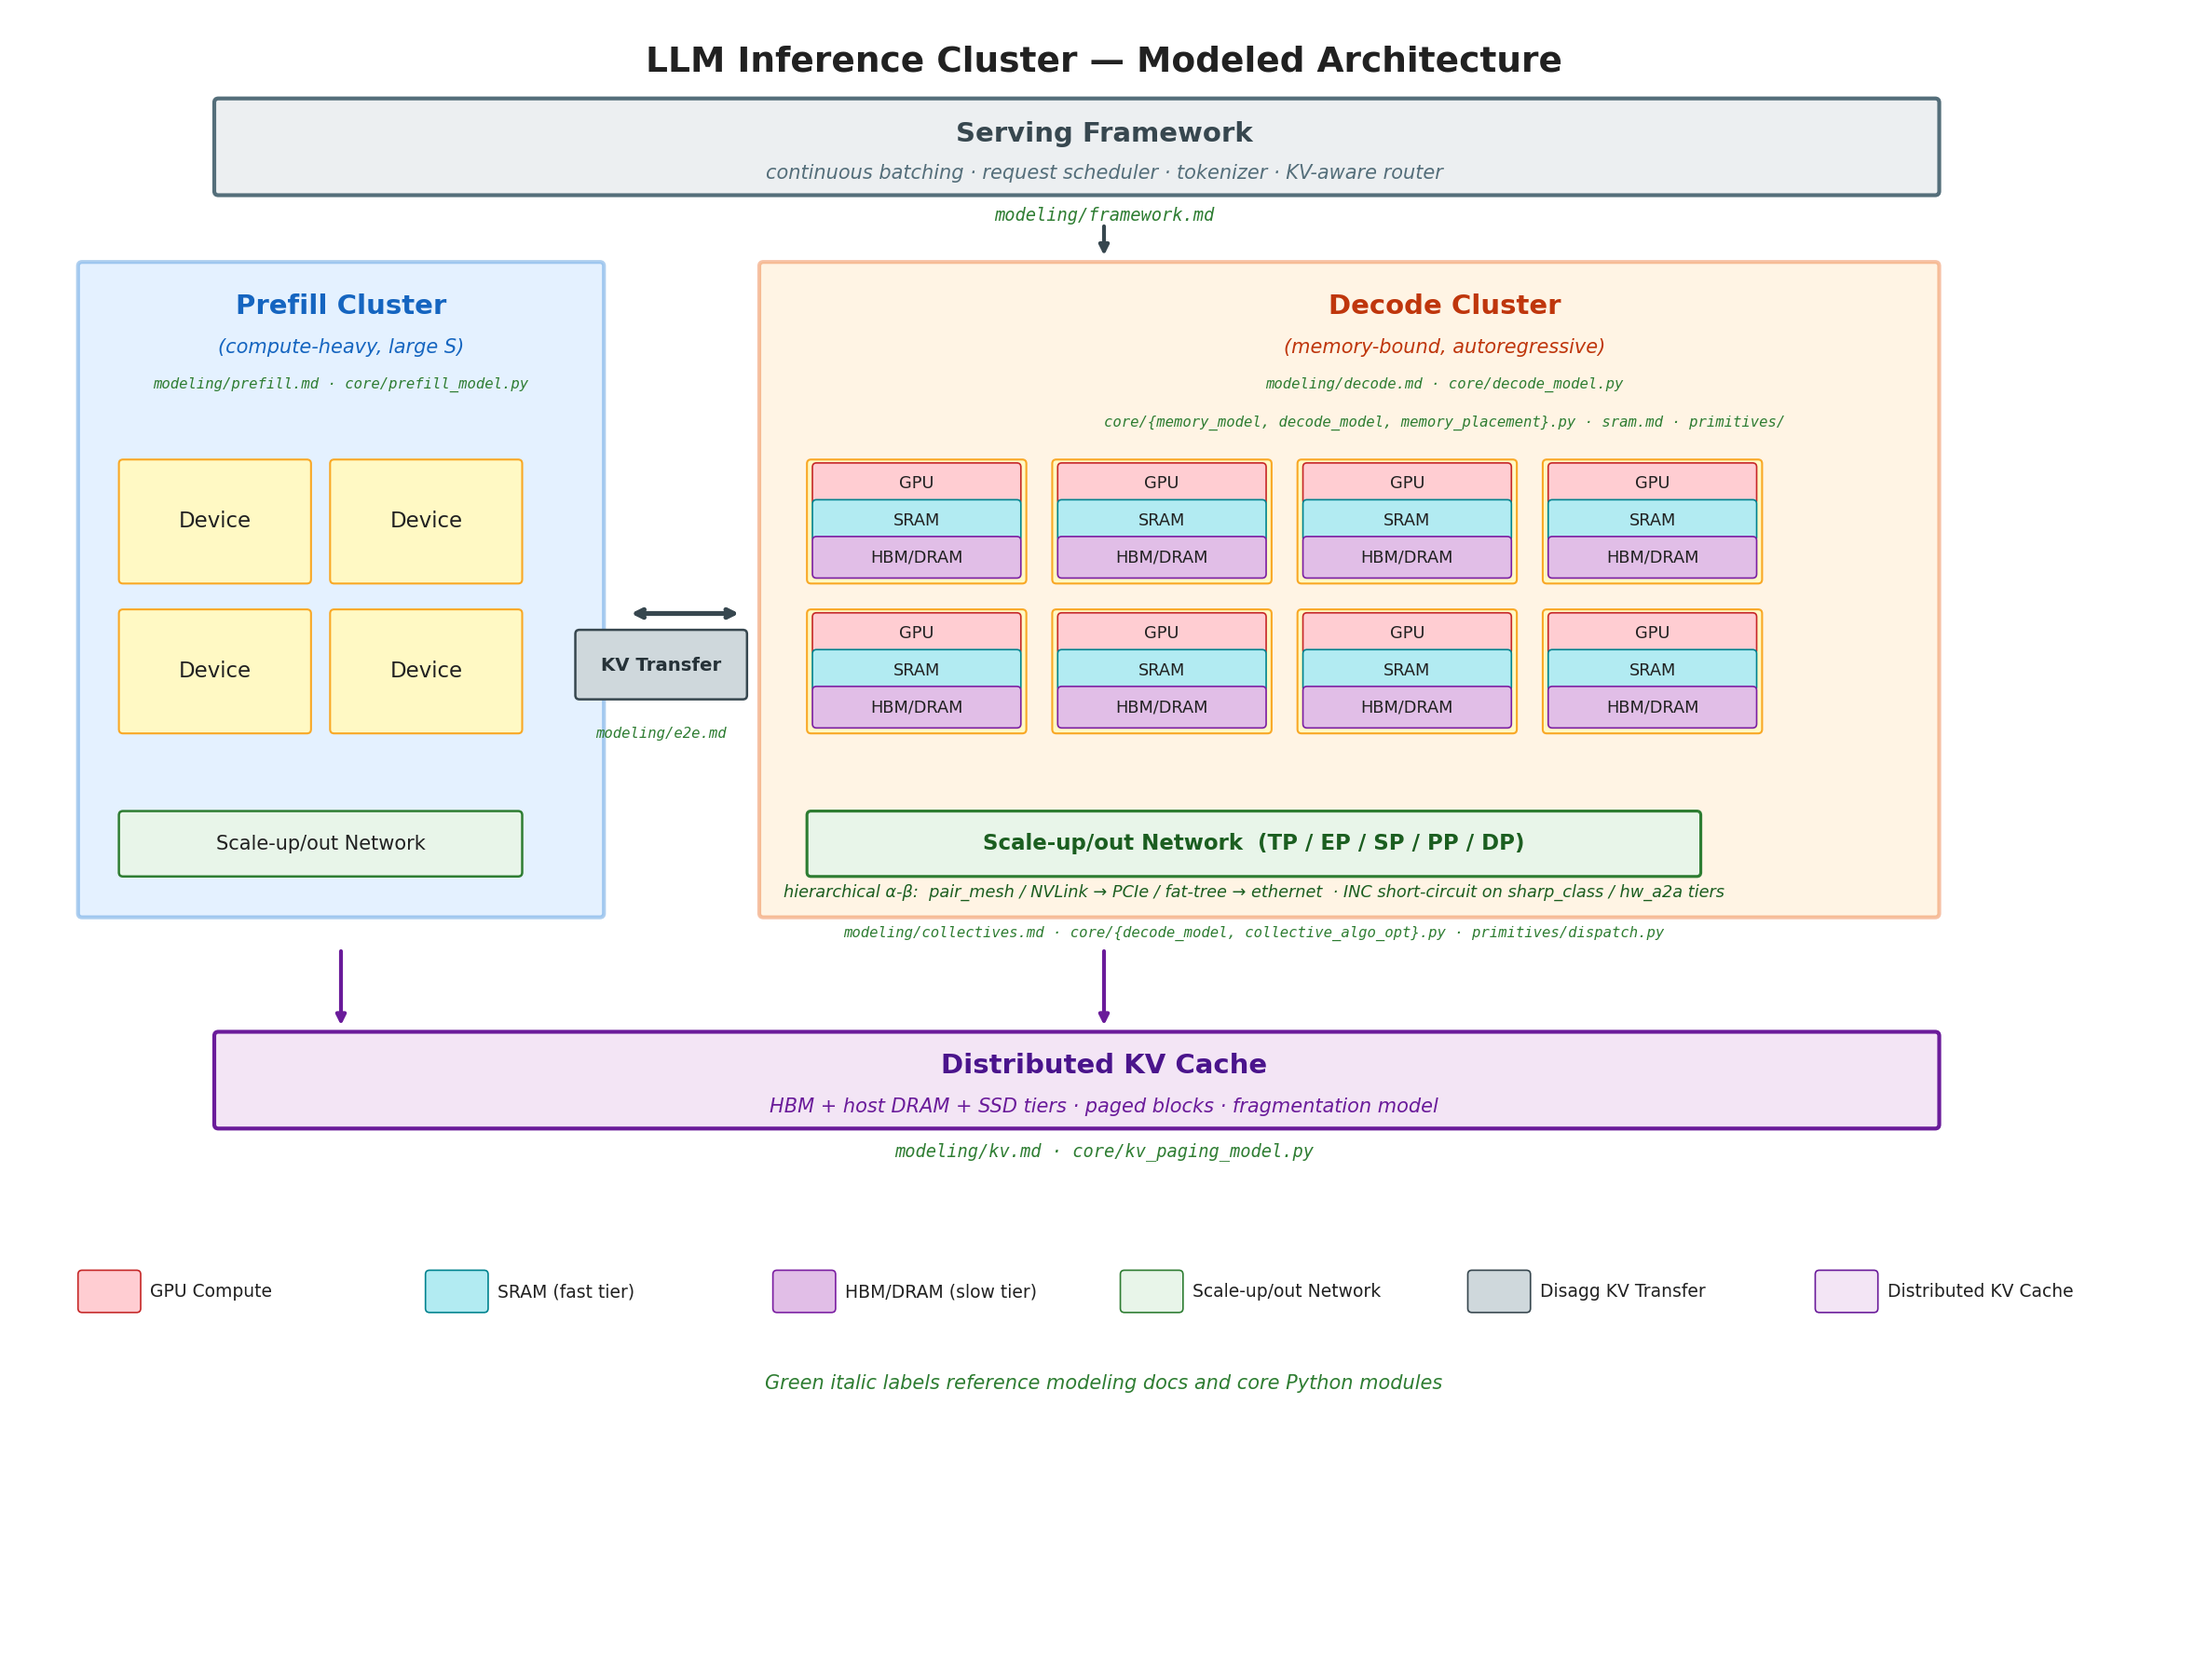
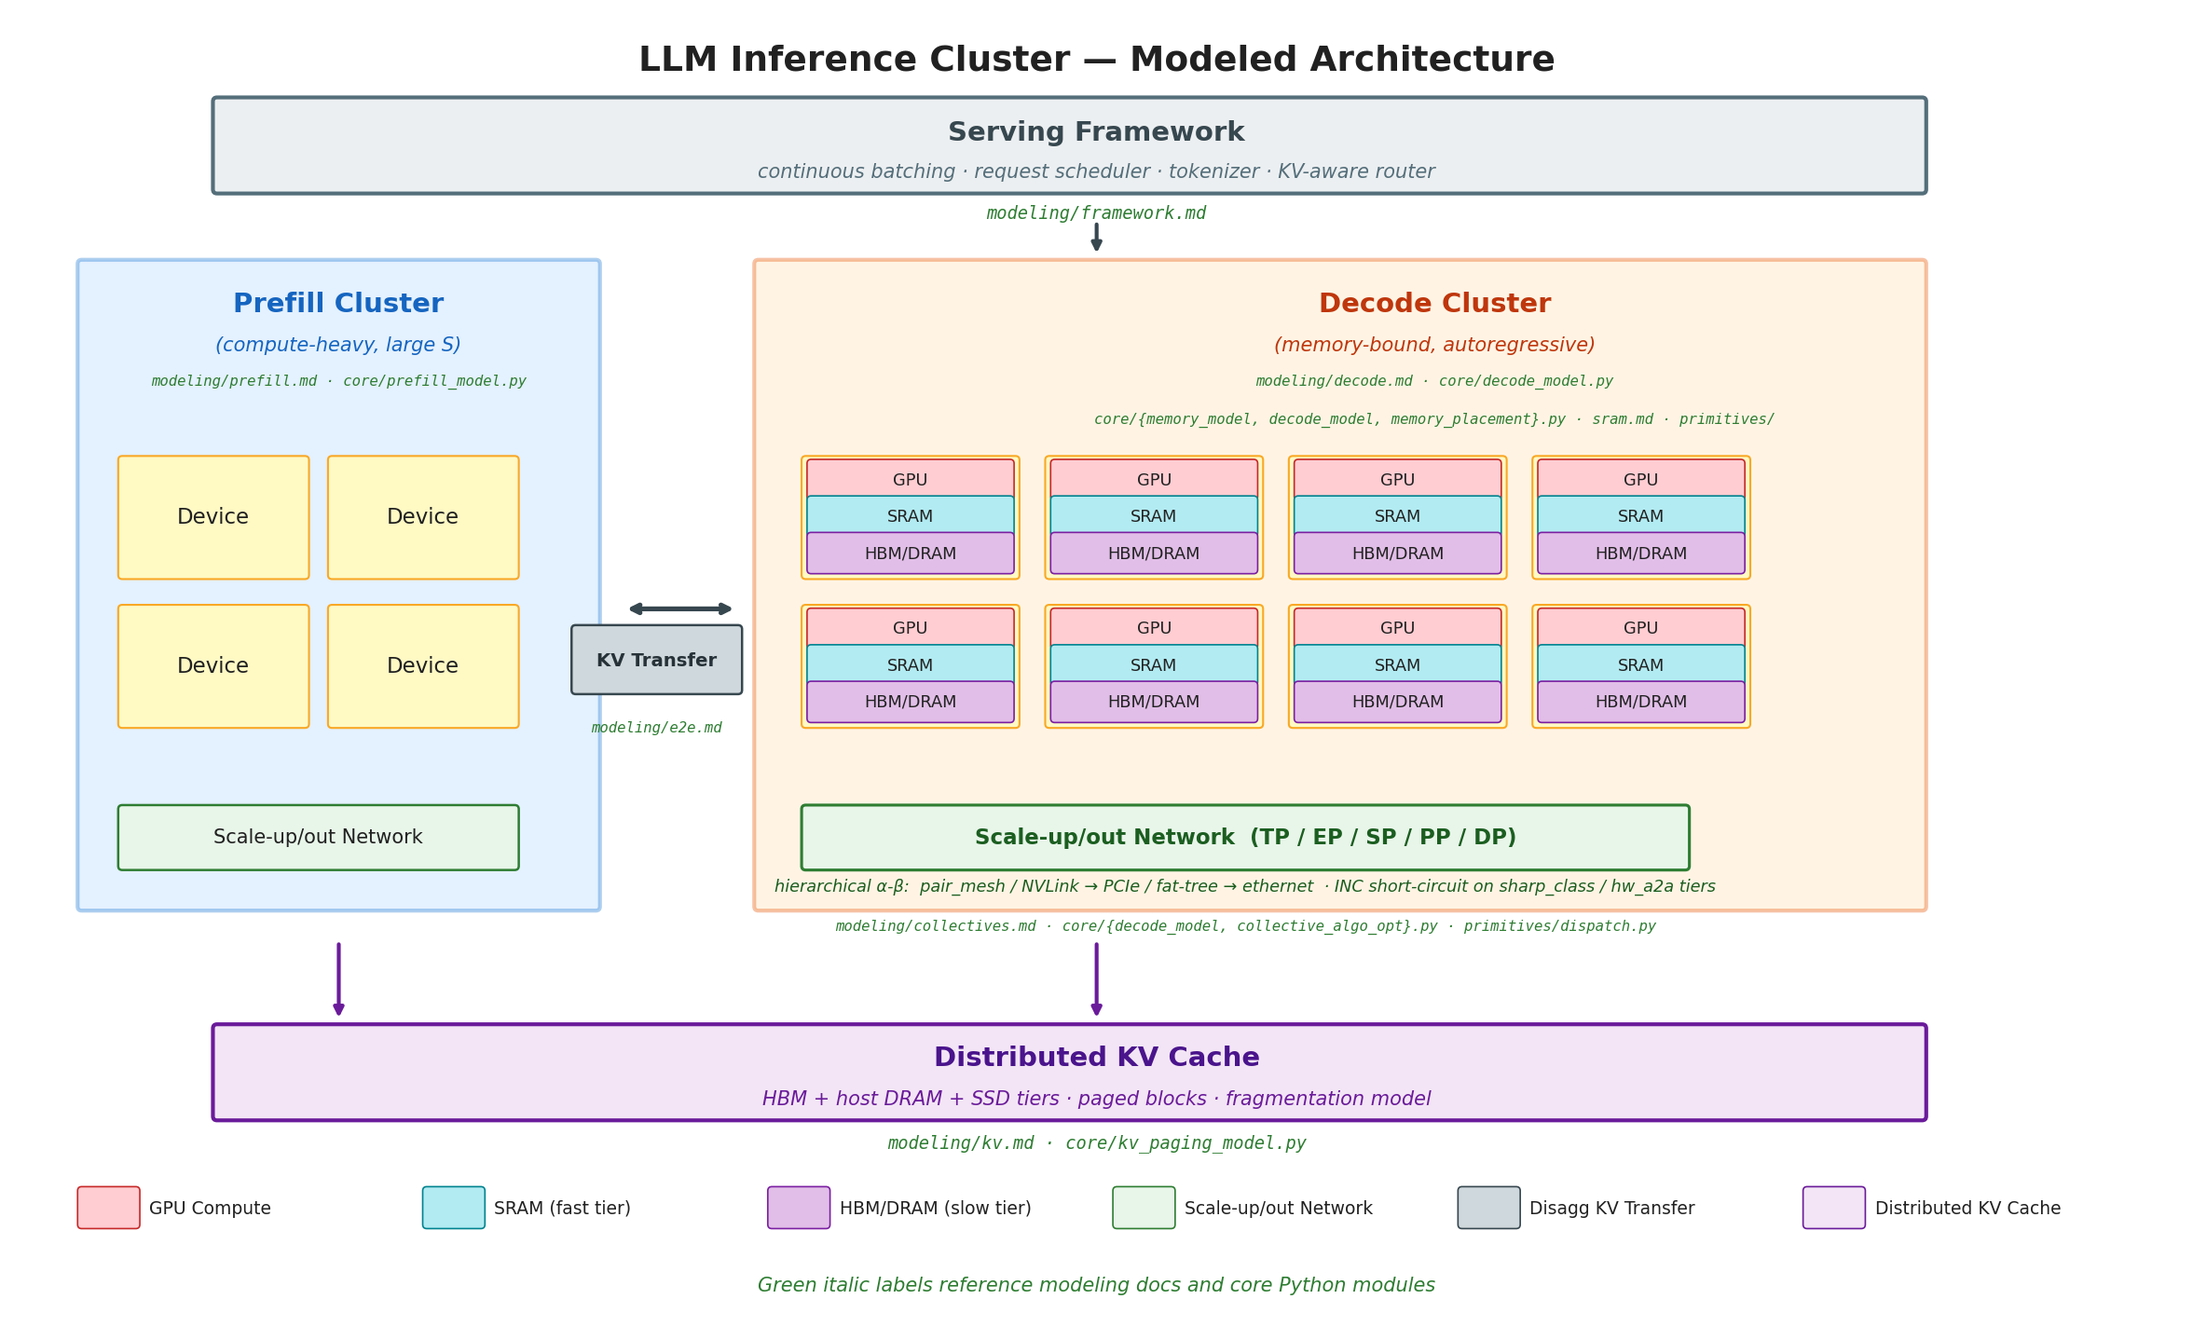
docs(diagram): tighten bottom margin
Three changes pull the legend and footer text up to sit just below the
KV Cache row:
- legend_y: 2.5 → 3.05 (legend boxes now sit ~0.5 below KV Cache)
- footer text: y=1.95 → y=2.6
- ylim: (0, 12) → (2.3, 12) to clip the unused bottom strip
- figsize: (16, 12) → (16, 9.7) to keep the 1:1 aspect ratio with x

Net effect: the saved PNG is ~20% shorter with no whitespace below the
legend.

diff --git a/scripts/gen_arch_diagram.py b/scripts/gen_arch_diagram.py
@@ -8,9 +8,9 @@ Python module that governs it.
 import matplotlib.pyplot as plt
 from matplotlib.patches import FancyBboxPatch
 
-fig, ax = plt.subplots(figsize=(16, 12))
+fig, ax = plt.subplots(figsize=(16, 9.7))
 ax.set_xlim(0, 16)
-ax.set_ylim(0, 12)
+ax.set_ylim(2.3, 12)
 ax.set_aspect("equal")
 ax.axis("off")
 
@@ -149,7 +149,7 @@ ref_text(8, 3.65, "modeling/kv.md · core/kv_paging_model.py", fontsize=9)
 # ═══════════════════════════════════════════════════════════════════
 # Legend at bottom
 # ═══════════════════════════════════════════════════════════════════
-legend_y = 2.5
+legend_y = 3.05
 legend_items = [
     (C_GPU,    "#C62828", "GPU Compute"),
     (C_SRAM,   "#00838F", "SRAM (fast tier)"),
@@ -163,7 +163,7 @@ for i, (fc, ec, label) in enumerate(legend_items):
     rounded_box(lx, legend_y, 0.4, 0.25, fc, lw=0.8, ec=ec)
     ax.text(lx + 0.5, legend_y + 0.12, label, ha="left", va="center", fontsize=9, color=C_TEXT)
 
-ax.text(8, 1.95, "Green italic labels reference modeling docs and core Python modules",
+ax.text(8, 2.6, "Green italic labels reference modeling docs and core Python modules",
         ha="center", va="center", fontsize=10, color=C_REF, fontstyle="italic")
 
 fig.tight_layout()
